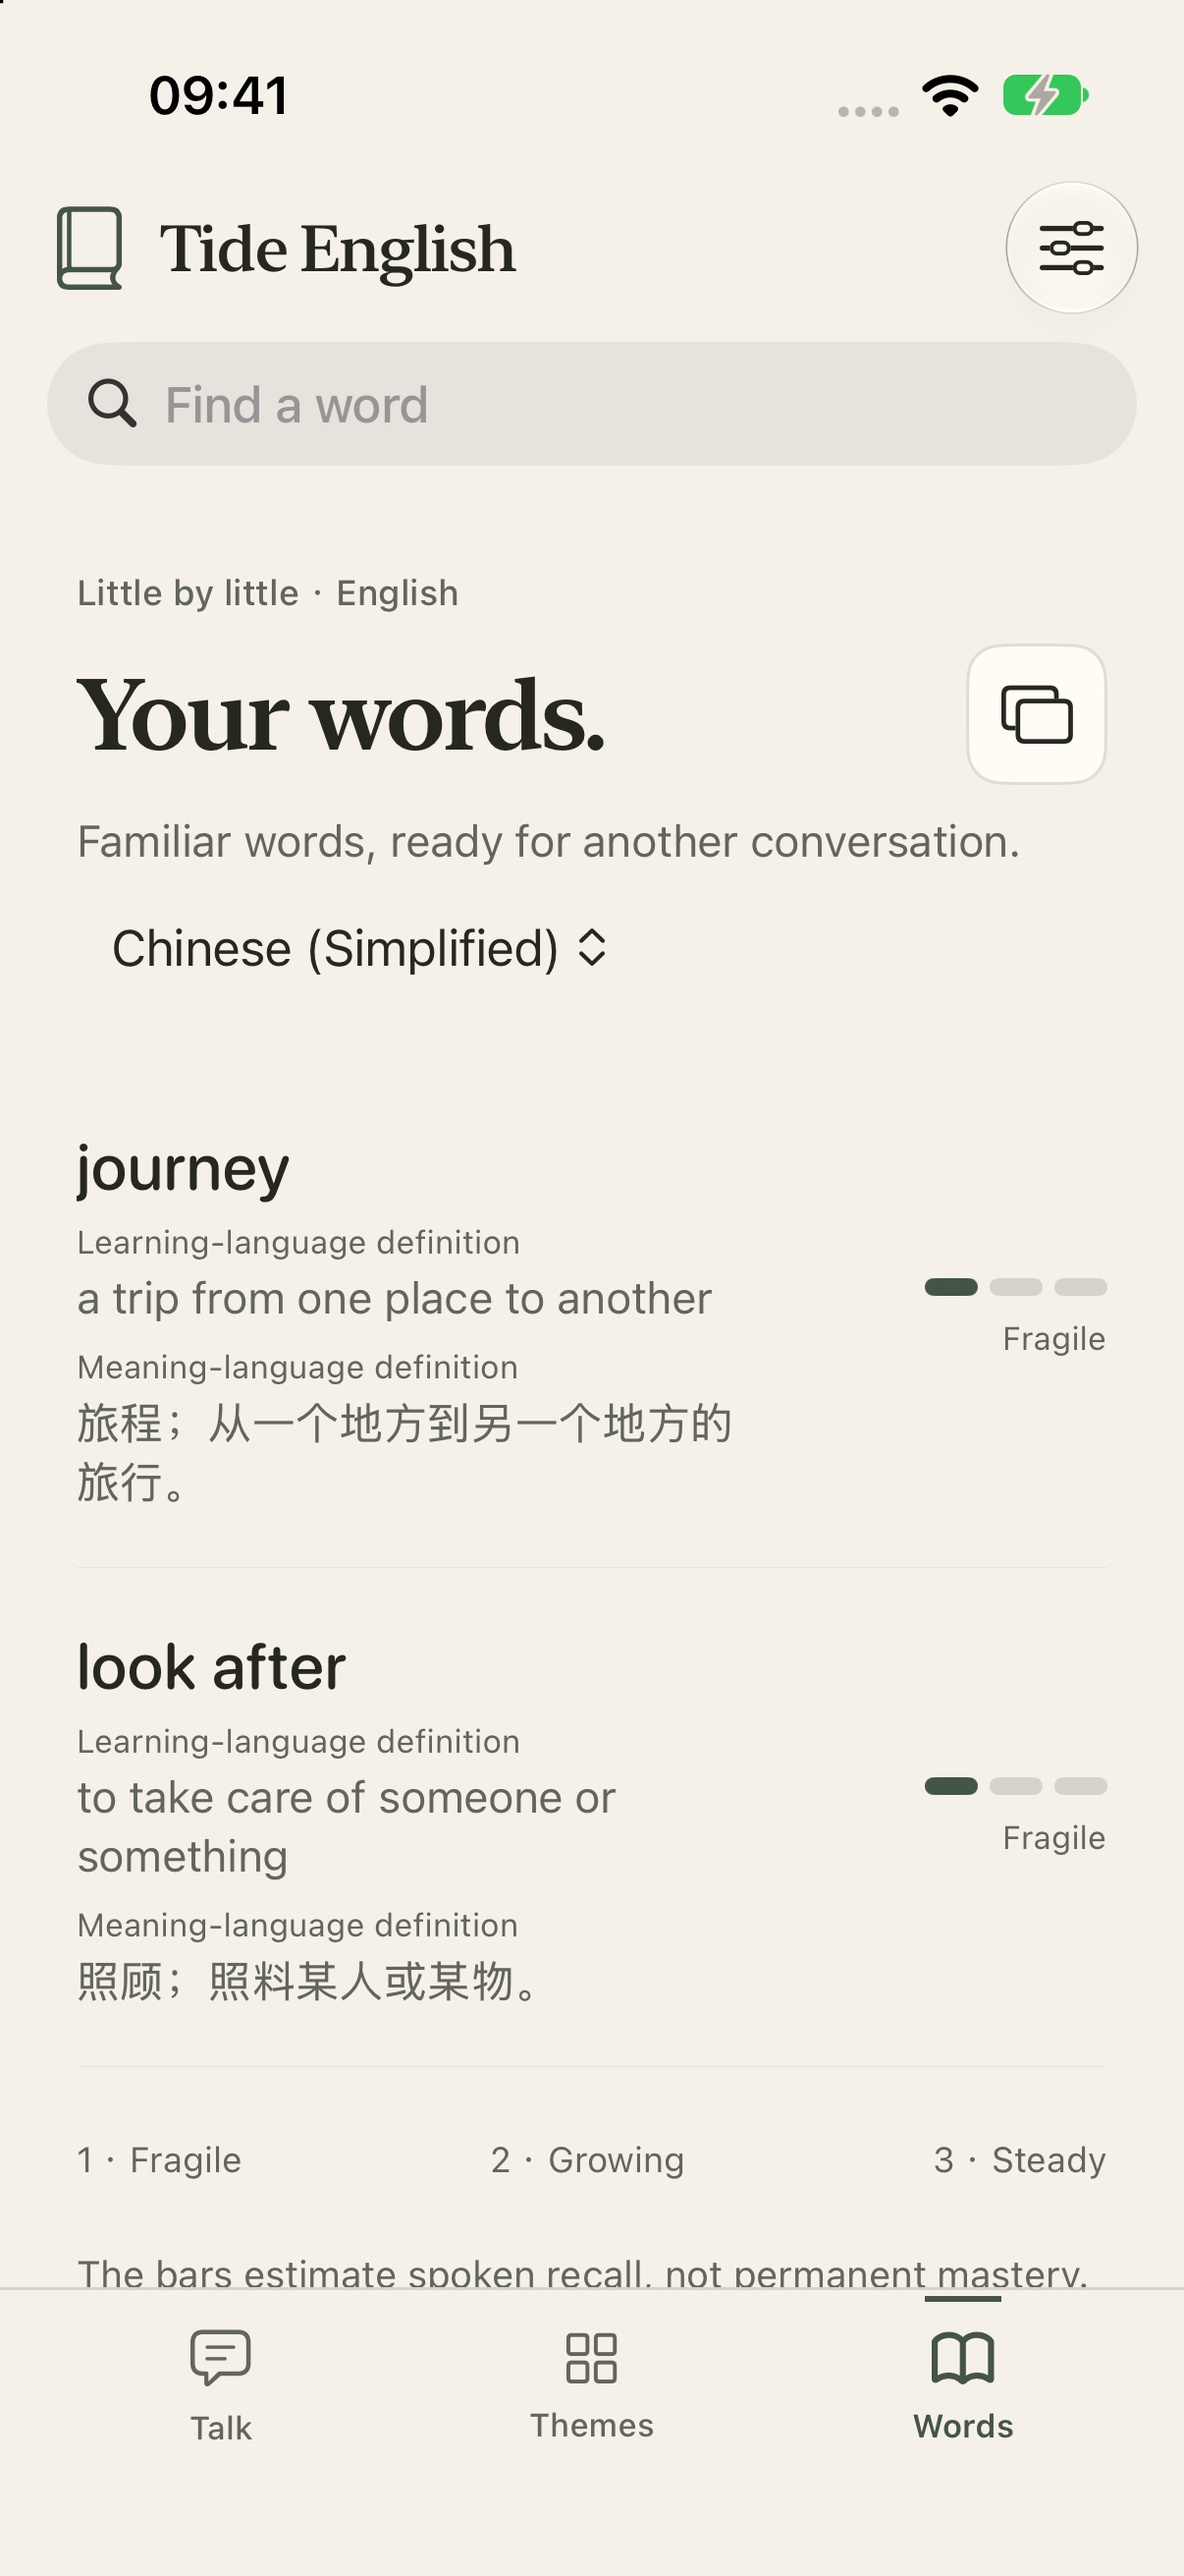
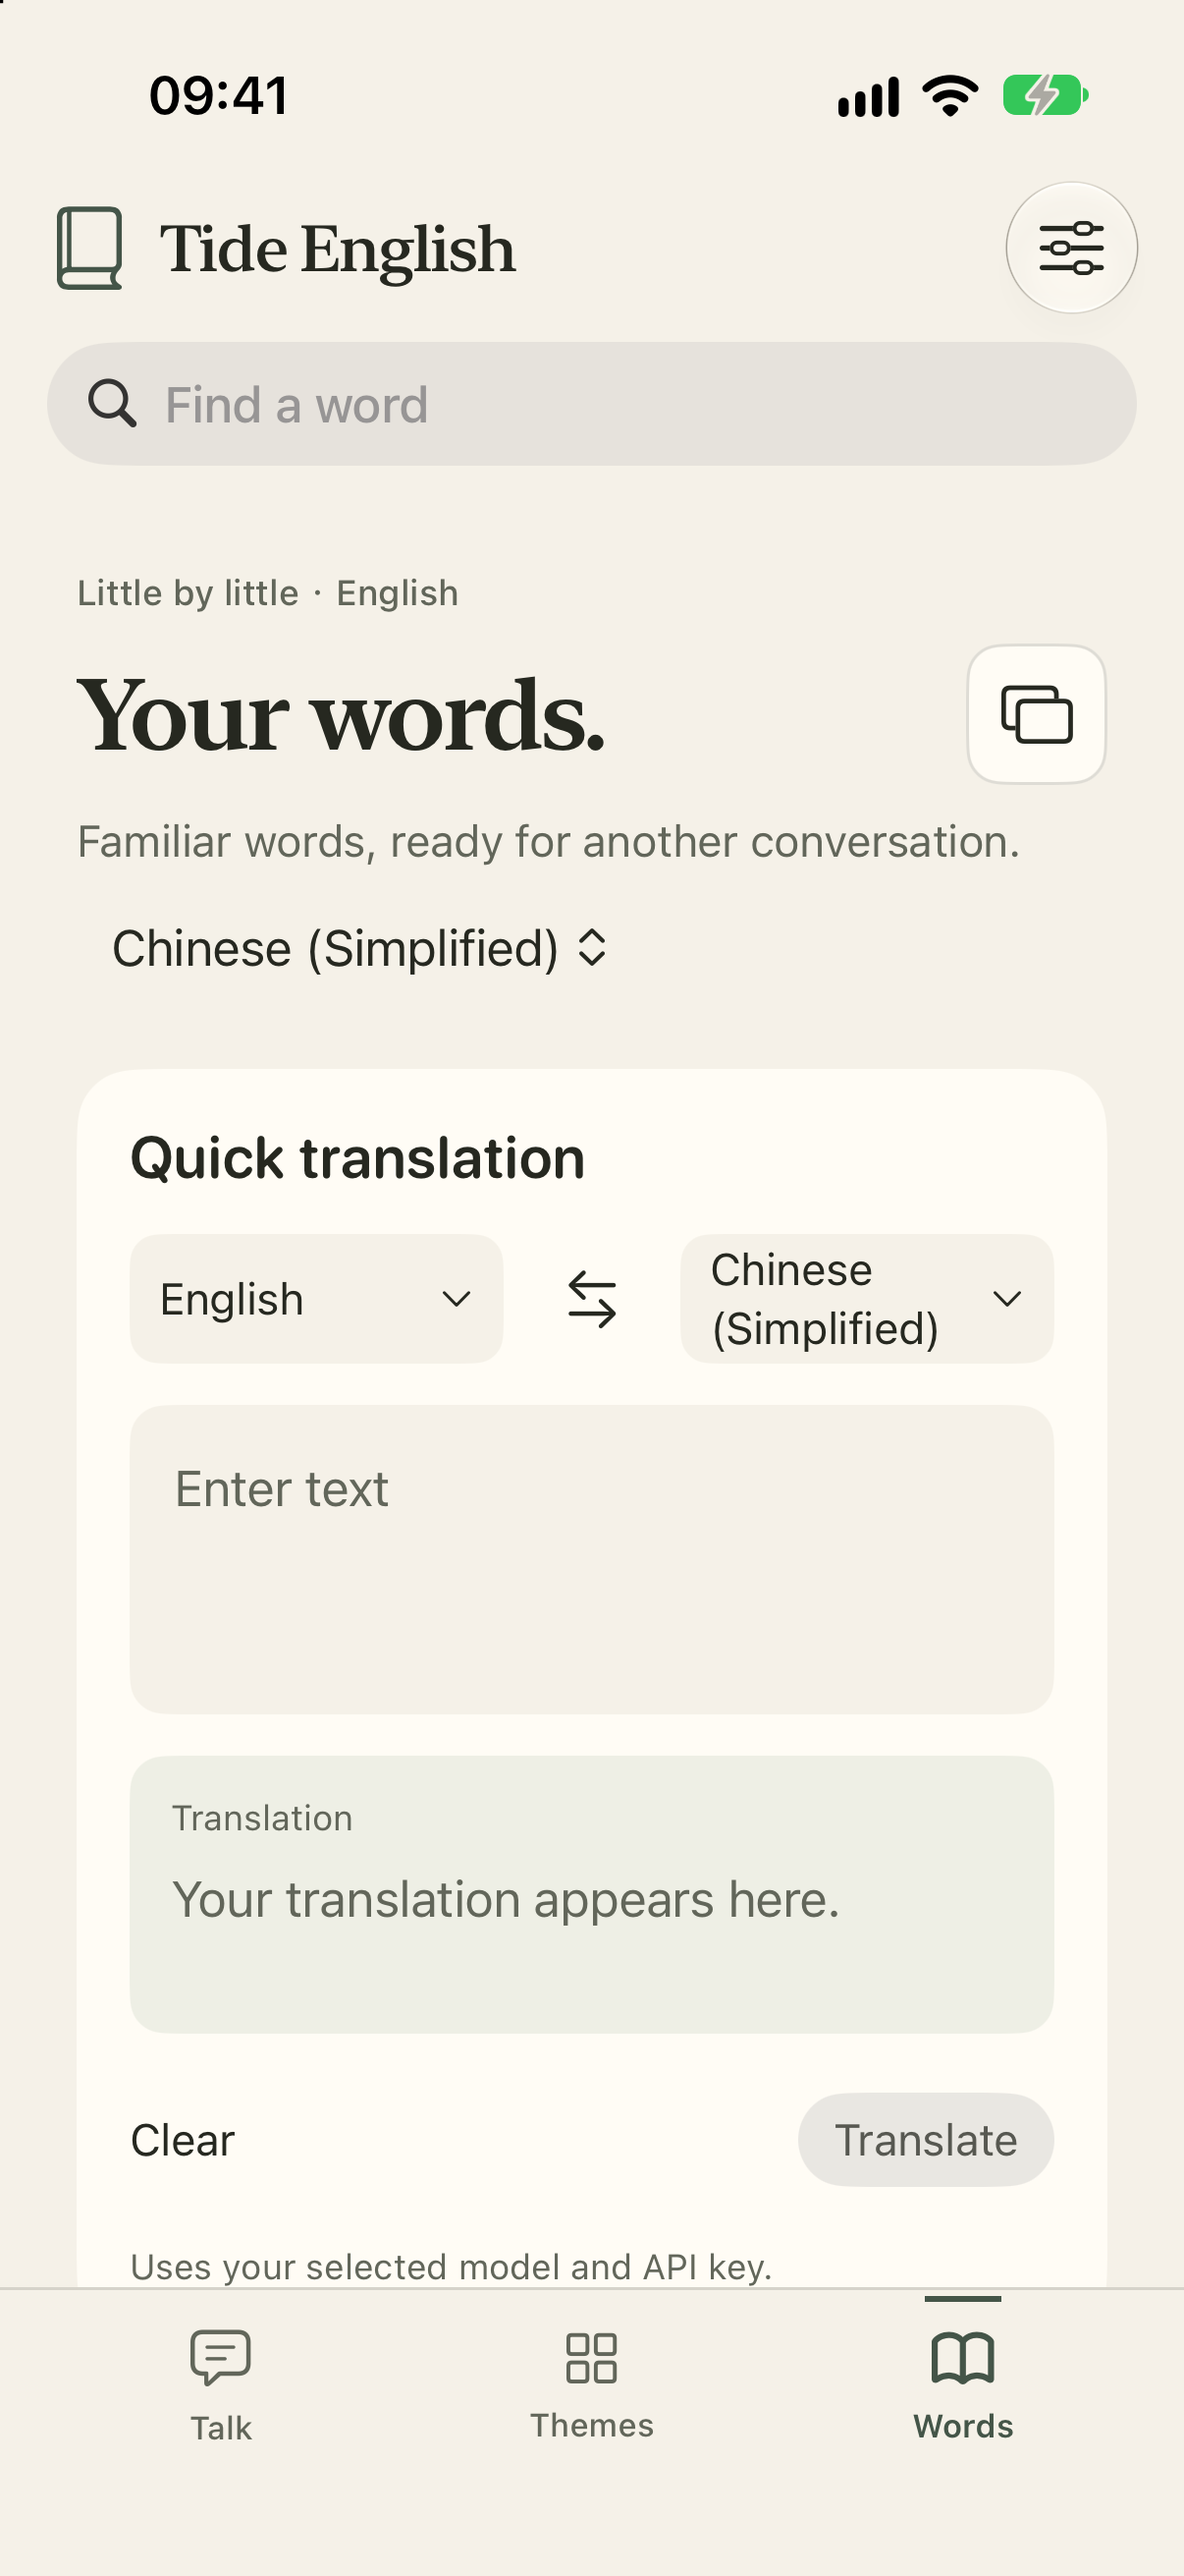
docs: refresh vocabulary screenshots for quick translation

diff --git a/docs/assets/screenshots/README.md b/docs/assets/screenshots/README.md
@@ -1,11 +1,11 @@
 # README screenshots
 
-Captured on 23 October 2026 from the current Tide English iOS simulator build, version 1.0 (1), using a dedicated iPhone 17 simulator running iOS 27.0.
+Captured from Tide English iOS simulator builds, version 1.0 (1), using dedicated iPhone 17 simulators running iOS 27.0. The English and Chinese vocabulary screenshots were refreshed on 2 November 2026 to show quick translation above saved words. The other screenshots were captured on 23 October 2026; individual capture dates are recorded in the manifest.
 
 | Directory | Interface | Theme | Screens |
 | --- | --- | --- | --- |
-| `ios/en/` | English | Paper | Conversation, themes, bilingual vocabulary, settings |
-| `ios/zh-CN/` | Chinese | Midnight | Conversation, themes, bilingual vocabulary, settings |
+| `ios/en/` | English | Paper | Conversation, themes, vocabulary with quick translation, settings |
+| `ios/zh-CN/` | Chinese | Midnight | Conversation, themes, vocabulary with quick translation, settings |
 
 These are unedited captures of the native application. Conversation and theme examples use Spanish learning with English explanations. Vocabulary examples use English learning with Simplified Chinese definitions. All content comes from the app's existing offline preview fixtures, with an in-memory learning store and preview account state. The speaking indicator is a simulated UI state; no microphone recording, live model call, real credential or personal learning record was used.
 

diff --git a/README.md b/README.md
@@ -11,10 +11,10 @@ Tide English uses your own model API key by default. Learning records stay on yo
 <p align="center">
   <a href="docs/assets/screenshots/ios/en/talk.png"><img src="docs/assets/screenshots/ios/en/talk.png" width="24%" alt="Conversation with bilingual captions" /></a>
   <a href="docs/assets/screenshots/ios/en/themes.png"><img src="docs/assets/screenshots/ios/en/themes.png" width="24%" alt="Conversation themes" /></a>
-  <a href="docs/assets/screenshots/ios/en/vocabulary.png"><img src="docs/assets/screenshots/ios/en/vocabulary.png" width="24%" alt="English vocabulary with Chinese definitions" /></a>
+  <a href="docs/assets/screenshots/ios/en/vocabulary.png"><img src="docs/assets/screenshots/ios/en/vocabulary.png" width="24%" alt="Vocabulary page with quick translation" /></a>
   <a href="docs/assets/screenshots/ios/en/settings.png"><img src="docs/assets/screenshots/ios/en/settings.png" width="24%" alt="Model, interface language and theme settings" /></a>
 </p>
-<p align="center">Conversation · Themes · Bilingual vocabulary · Settings</p>
+<p align="center">Conversation · Themes · Words &amp; translation · Settings</p>
 
 Captured from the current iOS app on an iPhone 17 simulator using offline sample data. English interface with the Paper theme; no real conversation, API key or personal learning record is shown. [Chinese interface](README-CN.md#应用截图) · [Capture details](docs/assets/screenshots/README.md).
 
